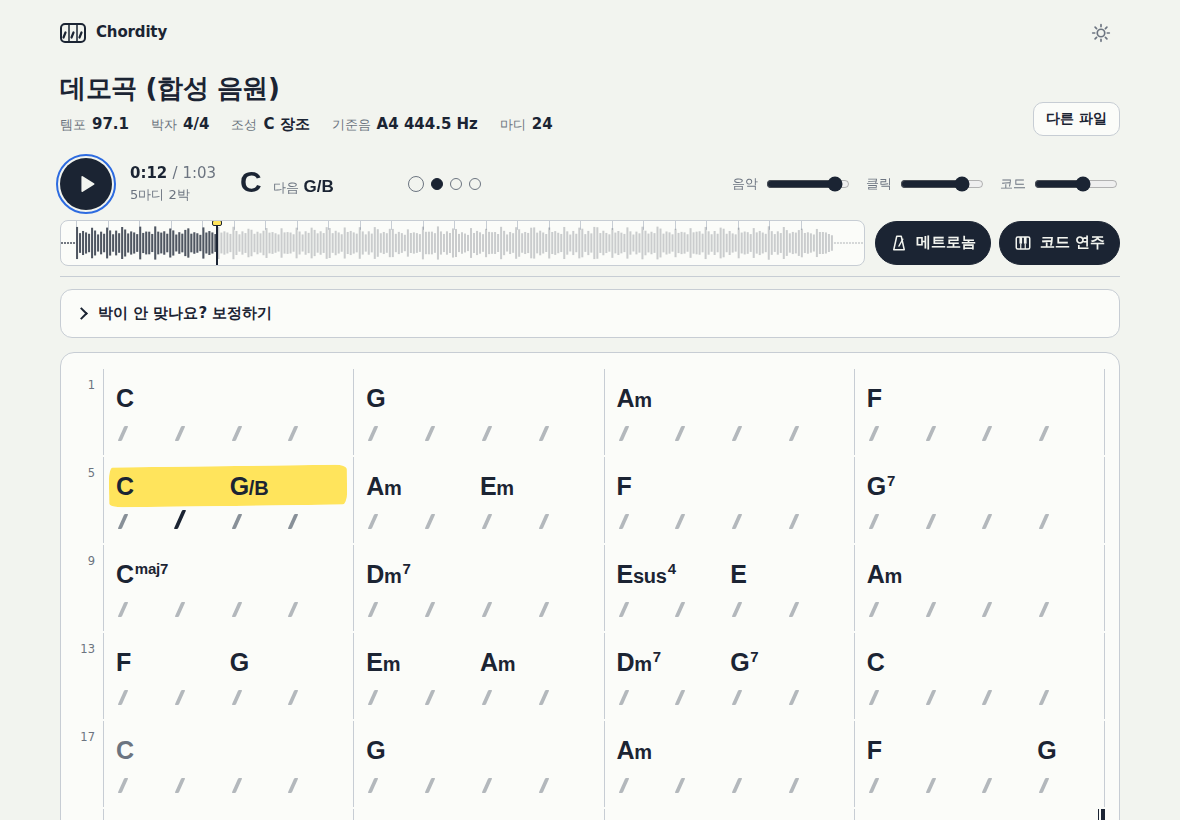
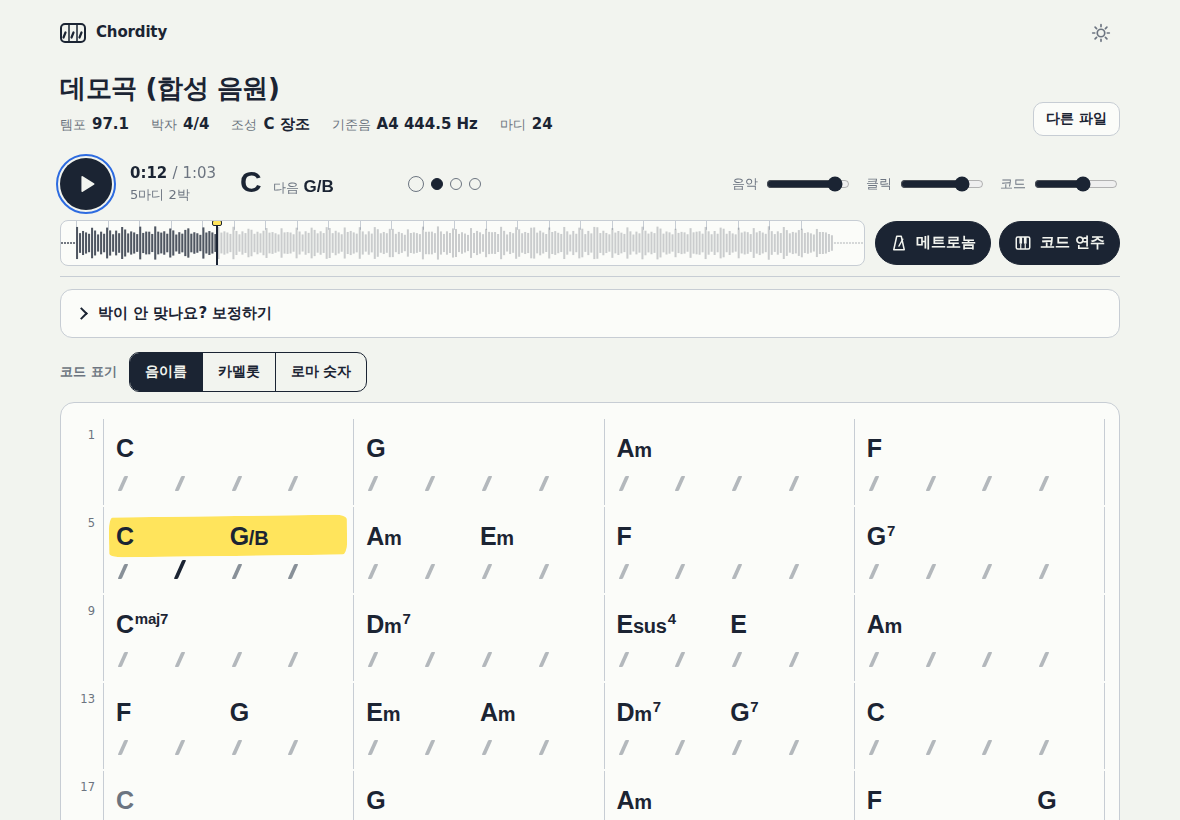
Add files via upload

diff --git a/README.md b/README.md
@@ -58,6 +58,8 @@ MP3, WAV, M4A, FLAC, OGG처럼 브라우저가 재생할 수 있는 파일이면
 | 0번 마디 | 노래가 마디 중간에서 시작하는 부분 (못갖춘마디) |
 | 마디 위의 `2박` 같은 표시 | 그 마디만 박 수가 다름 |
 | 검은 이름표 `E 장조로` | 그 박부터 조가 바뀜(전조). 위쪽 조성 칸에도 `E♭ 장조 → E 장조`처럼 나옴 |
+| `8B`, `9A`에 작은 글자가 붙은 이름 | 카멜롯 표기를 골랐을 때의 코드 이름(아래 "카멜롯으로 보기" 참고) |
+| `I`, `vi`, `V7/ii` 같은 로마 숫자 | 로마 숫자 표기를 골랐을 때의 코드 이름(아래 "로마 숫자로 보기" 참고) |
 | 동그라미 표시등 | 지금 몇 번째 박인지. 가장 큰 동그라미가 마디의 첫 박 |
 | 위쪽의 "다음 G" | 곧 나올 코드 |
 | 메트로놈, 코드 연주 버튼 | 누를 때마다 켜고 끔 |
@@ -76,11 +78,23 @@ MP3, WAV, M4A, FLAC, OGG처럼 브라우저가 재생할 수 있는 파일이면
 | 마디가 시작되는 곳이 한 박 어긋났다 | 한 박 앞당기기, 한 박 늦추기 |
 | 클릭이 아주 살짝 이르거나 늦게 느껴진다 | 클릭 타이밍 |
 | 박 보정을 처음 상태로 돌리고 싶다 | 박 보정 되돌리기 |
-| 코드 표기 같은 설정을 처음 상태로 돌리고 싶다 | 설정 기본값으로 |
+| 코드 종류 같은 설정을 처음 상태로 돌리고 싶다 | 설정 기본값으로 |
 
 지금 무엇을 바꿔 두었는지는 같은 칸의 **적용 중**에 "박 보정"과 "설정"으로 나뉘어 나옵니다. 칸을 접어 두어도 제목 옆에 요약이 보입니다.
 
-코드를 더 간단하게 보고 싶으면 **코드 표기**에서 "기본"을, 한 박 안에서 바뀌는 코드까지 보고 싶으면 "½박 단위"를 고르세요.
+코드를 더 간단하게 보고 싶으면 **코드 종류**에서 "기본"을, 한 박 안에서 바뀌는 코드까지 보고 싶으면 "½박 단위"를 고르세요.
+
+### 코드 이름을 다르게 보기
+
+차트 바로 위의 **코드 표기** 막대에서 코드를 적는 방식을 고릅니다. 누르는 즉시 차트, 지금·다음 코드, 텍스트 차트가 모두 바뀌고, 고른 방식은 다음에도 그대로입니다.
+
+| 버튼 | 예 | 쓰임 |
+|---|---|---|
+| 음이름 | C, Am, G7, G/B | 일반적인 코드 이름 |
+| 카멜롯 | 8B, 8A, 9B⁷ | DJ 믹싱에서 쓰는 카멜롯 휠 번호(아래 "카멜롯으로 보기") |
+| 로마 숫자 | I, vi, V⁷/ii, I⁶ | 화성학 책의 로마 숫자 화성 분석(아래 "로마 숫자로 보기") |
+
+키보드로는 막대에 초점을 둔 채 ←, →로 방식을 바꿉니다.
 
 ### 피아노로 코드 듣기
 
@@ -89,6 +103,34 @@ MP3, WAV, M4A, FLAC, OGG처럼 브라우저가 재생할 수 있는 파일이면
 - 음악, 클릭, 코드 소리 크기는 위쪽 막대 세 개로 따로 맞춥니다.
 - **보정하기**의 **코드 연주**에서 치는 때를 고를 수 있습니다: 코드가 바뀔 때, 마디마다 다시, 박마다.
 - 끄려면 **코드 연주** 버튼이나 P 키를 누르세요.
+
+### 카멜롯으로 보기
+
+카멜롯 표기는 조성을 시계처럼 1~12번 자리에 놓고, 장조는 B, 단조는 A를 붙이는 방식입니다. 번호가 같거나 하나 차이 나는 조성끼리는 잘 어울립니다. 그래서 DJ가 곡을 이어 붙일 때 많이 씁니다.
+
+- 코드는 근음과 성격이 같은 조성의 번호로 적습니다. C는 8B, Am은 8A, G7은 9B에 작은 7이 붙습니다.
+- 한 조성 안의 코드는 그 조성 번호와 양옆 번호에 모입니다. E♭ 장조(5B) 곡이라면 4·5·6번이 주로 나오므로, 번호가 멀리 떨어진 코드는 조성 밖의 코드라는 뜻입니다.
+- 곡의 조성도 `E♭ 장조(5B)`처럼 번호를 함께 보여 줍니다.
+- 카멜롯에는 베이스음을 적는 방법이 없어 슬래시 코드의 베이스음은 생략합니다. 코드 연주는 베이스음까지 그대로 칩니다.
+
+### 로마 숫자로 보기
+
+로마 숫자 표기(로마 숫자 화성 분석)는 코드를 음이름 대신 **조성 안에서 몇 번째 음 위의 화음인지**로 적는 방법입니다. C 장조의 C·F·G는 I·IV·V, A 단조의 Am·Dm·E7은 i·iv·V7이 됩니다. 조성이 달라도 같은 진행은 같은 숫자로 보이므로 곡의 뼈대를 읽거나 다른 조로 옮겨 치기 좋습니다.
+
+| 표기 | 뜻 |
+|---|---|
+| I, IV, V (대문자) | 장3화음 계열 코드. 숫자는 조성의 몇 번째 음 위의 화음인지 |
+| i, ii, vi (소문자) | 단3화음 계열 코드 |
+| °, ø, +, M | 감화음(°), 반감7화음(ø), 증3화음(+), 장7화음(M7) |
+| 7 | 7화음 |
+| 6, ⁶₄ | 3화음의 자리바꿈. 베이스가 3음이면 6, 5음이면 ⁶₄ |
+| ⁶₅, ⁴₃, ⁴₂ | 7화음의 자리바꿈. 베이스가 3음, 5음, 7음일 때 |
+| V/x, vii°/x, ii/x | x로 가기 위해 잠시 쓰는 화음(부속화음). V7/vi는 vi로 가는 딸림7화음 |
+| ♭VI, ♭VII 등 | 조성 음계 밖의 도수. 같은 으뜸음의 단조에서 빌려 온 화음(차용 화음) 등 |
+
+- 숫자는 그 자리의 조성을 기준으로 셉니다. 전조한 뒤에는 새 조성에서 다시 셉니다.
+- 전조 직전에 새 조성의 딸림화음이 나오면 새 조성 기준 V로 적습니다(예: E 장조로 넘어가기 직전의 B7은 V7).
+- 베이스음 표기를 끄면 자리바꿈 숫자 없이 기본형으로 적습니다.
 
 ### 단축키
 
@@ -109,7 +151,7 @@ MP3, WAV, M4A, FLAC, OGG처럼 브라우저가 재생할 수 있는 파일이면
 ### 알아 두면 좋은 것
 
 - 파일은 인터넷으로 보내지지 않습니다. 모든 분석은 브라우저 안에서 합니다.
-- 메트로놈, 코드 연주, 볼륨, 코드 표기 같은 설정은 브라우저에 저장되어 다음에도 그대로입니다.
+- 메트로놈, 코드 연주, 볼륨, 코드 종류와 코드 표기 방식 같은 설정은 브라우저에 저장되어 다음에도 그대로입니다.
 - 블루투스 이어폰을 써도 음악, 클릭, 피아노가 함께 늦게 나오기 때문에 서로 어긋나지 않습니다.
 - 아이폰에서 소리가 안 나면 무음 모드가 켜져 있는지 확인하세요.
 
@@ -261,12 +303,12 @@ flowchart TD
 
 1. **보정 연산 적용**: 사용자가 누른 ½박, ×2, ÷2, ÷3을 누른 순서대로 비트 목록에 적용합니다. ÷2와 ÷3은 어느 박을 남길지 박 강세로 정합니다.
 2. **박 단위 집계**: 박 구간의 크로마를 가운데에 가중치를 두어 평균합니다. 베이스 크로마에서는 곡 전체 중앙값의 절반을 빼서, 음정이 있는 킥 드럼처럼 늘 깔린 성분을 없앱니다.
-3. **조성과 전조**: 비트마다 앞뒤 ±6박의 음 분포를 Krumhansl–Kessler 조성 프로필과 비교하고, 조표 12종을 상태로 하는 HMM으로 조성 구간을 나눕니다. 24박보다 짧은 구간은 이웃 구간에 흡수합니다. 전조가 없으면 곡 전체 분포로 고른 조성 하나를 씁니다.
+3. **조성과 전조**: 비트마다 앞뒤 ±6박의 음 분포를 Krumhansl–Kessler 조성 프로필과 비교하고, 조표 12종을 상태로 하는 HMM으로 조성 구간을 나눕니다. 24박보다 짧은 구간은 이웃 구간에 흡수합니다. 전조가 없으면 곡 전체 분포로 고른 조성 하나를 씁니다. 코드를 인식한 뒤에는 구간마다 코드로 조성을 다시 정합니다. 코드가 어느 조성 음계에 들어맞는지, 으뜸화음이 차지하는 시간, V → I 종지, 처음과 마지막 코드, 4마디 악구 첫 박의 코드를 음 분포와 함께 봅니다.
 4. **예비 코드**: 장3화음과 단3화음만으로 빠르게 한 번 풀어 첫 박 증거로 씁니다.
 5. **세분 판정**: 박 안의 1/2 지점과 1/3, 2/3 지점의 온셋 세기를 비교해 겹박자인지 봅니다.
 6. **첫 박 HMM**: 박자를 자동으로 고르고(4박 대 3박, 겹박자면 4 대 2), 사용자의 첫 박 이동을 반영합니다.
 7. **최종 코드 HMM**: 1박 또는 ½박 단위로, 전위를 포함해 최대 289개 상태에서 비터비로 풉니다.
-8. **마디 구성**: 첫 박마다 마디를 나누고, 마디 안의 코드 변화 위치와 길이, 앞 마디에서 이어지는지 여부, 그 자리의 조성에 맞는 음이름(♯ 또는 ♭)을 붙입니다. 전조 경계는 마디 첫 박을 조금 선호하도록 박 단위로 다듬고(딸림화음 경유면 으뜸화음 자리로), 몇 마디 몇 박인지 기록합니다.
+8. **마디 구성**: 첫 박마다 마디를 나누고, 마디 안의 코드 변화 위치와 길이, 앞 마디에서 이어지는지 여부, 그 자리의 조성에 맞는 음이름(♯ 또는 ♭), 카멜롯 부호, 로마 숫자를 함께 붙입니다. 화면은 차트 위 코드 표기 막대에서 고른 하나를 보여 주며, 표기를 바꿀 때 다시 분석하지 않습니다. 전조 경계는 마디 첫 박을 조금 선호하도록 박 단위로 다듬고(딸림화음 경유면 으뜸화음 자리로), 몇 마디 몇 박인지 기록합니다.
 
 ### 3-7. 재생과 메트로놈
 
@@ -286,7 +328,7 @@ flowchart TD
 | 한 박 앞당기기, 늦추기 | `downShift` ∓1 | 마디 안 위치 번호를 한 칸씩 회전 |
 | 박자 | `meter` | 첫 박 HMM을 지정한 박 수로 다시 풂 |
 
-보정은 비트 목록에 대한 **연산 기록**으로 저장되어 매번 처음부터 순서대로 다시 적용됩니다. "박 보정 되돌리기"는 이 기록을 비우는 것입니다. 코드 표기, 코드 연주 방식, 첫 박 강조, 자동 스크롤, 클릭 타이밍은 곡이 아니라 브라우저에 저장되는 **설정**이라 "설정 기본값으로"로 따로 되돌립니다. "적용 중"에는 두 가지 모두 기본값과 다른 것만 나옵니다.
+보정은 비트 목록에 대한 **연산 기록**으로 저장되어 매번 처음부터 순서대로 다시 적용됩니다. "박 보정 되돌리기"는 이 기록을 비우는 것입니다. 코드 종류, 코드 연주 방식, 첫 박 강조, 자동 스크롤, 클릭 타이밍은 곡이 아니라 브라우저에 저장되는 **설정**이라 "설정 기본값으로"로 따로 되돌립니다. "적용 중"에는 두 가지 모두 기본값과 다른 것만 나옵니다.
 
 ### 3-9. 코드 연주
 
@@ -700,6 +742,67 @@ b^\ast = \arg\max_{|b - b_0| \le 8}\ \sum_{j=b-16}^{b-1}\big(u_j(A) - u_j(B)\big
 
 $b^\ast$ 의 코드가 새 조의 V, V7, Vsus4 이고 8박 안에 새 조의 으뜸화음(장조 I·Imaj7, 단조 i·im7)이 이어지면, 경계를 그 으뜸화음 자리로 옮깁니다. 이렇게 나눈 구간의 조성이 코드 방출 점수 (12)의 조성 가산점과 음이름 표기에 쓰입니다.
 
+코드 인식이 끝나면 구간마다 코드로 조성을 다시 정합니다. 구간의 코드열(같은 코드는 하나로 묶고 길이 $\ell_j$ 박)과 후보 조성 $K$ 에 대해 다음 점수가 가장 큰 조성을 24개 중에서 고릅니다.
+
+```math
+J(K) = \frac{\sum_j \ell_j\,[\,c_j \subset K\,]}{\sum_j \ell_j} + 0.5\,\frac{\sum_j \ell_j\,[\,c_j = \mathrm{I}_K\,]}{\sum_j \ell_j} + 0.3\min\!\Big(1, \frac{N_{V \to I}}{3}\Big) + 0.15\,[\,c_1 = \mathrm{I}_K\,] + 0.15\,[\,c_\text{last} = \mathrm{I}_K\,] + 0.4\,\frac{N_\text{phrase}(\mathrm{I}_K)}{N_\text{phrase}} + 1.2\,\mathrm{corr}\Big(\sum_i h_i,\ \vec K\Big)
+```
+
+$[\,c \subset K\,]$ 는 코드 구성음이 모두 조성 음계(단조는 이끎음 포함)에 드는지, $\mathrm{I}_K$ 는 으뜸화음(장조 I·Imaj7, 단조 i·im7), $N_{V \to I}$ 는 V·V7 → I 진행 수, $N_\text{phrase}$ 는 구간의 첫 온마디부터 4마디마다의 첫 박 수입니다. 마지막 항의 비중 1.2는 조성이 분명한 곡 18개로 정했습니다.
+
+#### (19) 카멜롯 표기
+
+카멜롯 휠은 조성을 5도권 순서로 1~12번에 놓고 장조에 B, 단조에 A를 붙입니다. 장조 으뜸음 $t$ (C = 0)의 번호와, 나란한 장조(으뜸음 $t+3$)와 번호를 공유하는 단조의 번호는 다음과 같습니다.
+
+```math
+n_\text{major}(t) = \big((7t + 7) \bmod 12\big) + 1,\qquad n_\text{minor}(t) = n_\text{major}\big((t + 3) \bmod 12\big)
+```
+
+$7t \bmod 12$ 는 C에서 5도를 몇 번 올라간 자리인지를 뜻합니다( $7 \cdot 7 \equiv 1 \pmod{12}$ 이므로 5도 위의 조성은 번호가 1 커짐). 여기에 7을 더해 C 장조가 8B가 되게 합니다.
+
+| 번호 | A (단조) | B (장조) |
+|---|---|---|
+| 1 | A♭m (G♯m) | B |
+| 2 | E♭m (D♯m) | F♯ (G♭) |
+| 3 | B♭m | D♭ |
+| 4 | Fm | A♭ |
+| 5 | Cm | E♭ |
+| 6 | Gm | B♭ |
+| 7 | Dm | F |
+| 8 | Am | C |
+| 9 | Em | G |
+| 10 | Bm | D |
+| 11 | F♯m | A |
+| 12 | C♯m (D♭m) | E |
+
+코드는 근음이 같고 3음이 같은 조성의 번호를 쓰고, 코드 종류는 첨자로 남깁니다. 3음이 없는 sus 코드는 B 쪽에 둡니다.
+
+| 코드 종류 | 카멜롯 부호 | 예 |
+|---|---|---|
+| 장3화음, 7, maj7, aug, sus2, sus4 | 근음 장조의 번호 + B | C → 8B, G7 → 9B7, Fmaj7 → 7Bmaj7, Esus4 → 12Bsus4 |
+| 단3화음, m7, dim, m7♭5, dim7 | 근음 단조의 번호 + A | Am → 8A, Dm7 → 7A7, Bdim → 10Adim, Bm7♭5 → 10A7♭5 |
+
+장조 $n$B의 다이아토닉 코드는 I·IV·V가 $n$B·$(n-1)$B·$(n+1)$B, ii·iii·vi가 $(n-1)$A·$(n+1)$A·$n$A로, 모두 $n \pm 1$ 안에 모입니다(12 다음은 1).
+
+#### (20) 로마 숫자 화성 분석
+
+그 자리의 조성(으뜸음 $t$, 장·단조)을 기준으로 근음 $r$ 의 음정 $d = (r - t) \bmod 12$ 를 도수로 바꿉니다. 단조는 자연단음계를 기준으로 하고, 이끎음 위의 감화음은 관례대로 임시표 없이 vii°로 적습니다.
+
+| $d$ | 0 | 1 | 2 | 3 | 4 | 5 | 6 | 7 | 8 | 9 | 10 | 11 |
+|---|---|---|---|---|---|---|---|---|---|---|---|---|
+| 장조 | I | ♭II | II | ♭III | III | IV | ♯IV | V | ♭VI | VI | ♭VII | VII |
+| 단조 | I | ♭II | II | III | ♯III | IV | ♯IV | V | VI | ♯VI | VII | ♯VII |
+
+| 규칙 | 내용 |
+|---|---|
+| 대·소문자 | 3음이 단3도인 코드(m, m7, dim, m7♭5, dim7)는 소문자 |
+| 성질 기호 | dim·dim7 → °, m7♭5 → ø, aug → +, maj7 → M |
+| 자리바꿈 숫자 | 3화음은 기본형(없음), 6, ⁶₄. 7화음은 7, ⁶₅, ⁴₃, ⁴₂. 베이스음 표기를 끄면 기본형 |
+| 부속 딸림화음 | 조성 밖의 장3화음·딸림7화음이 바로 다음 코드로 완전5도 내려가 해결하고, 그 코드가 으뜸화음이 아닌 조성 안 3화음 x이면 V/x, V7/x. 단조의 VII → III 도 V/III |
+| 부속 이끎음 화음 | 조성 밖 감화음이 반음 위의 조성 안 3화음 x로 가면 vii°/x, vii°7/x, viiø7/x |
+| 부속 ii | 조성 밖 단3화음·m7·m7♭5가 완전5도 아래의 V/x로 이어지면 ii/x, ii7/x, iiø7/x |
+| 전조 직전 | 다음 구간 조성의 V·V7이 그 조성의 으뜸화음으로 가면 새 조성 기준 V |
+
 ### 4-2. 물리 세계
 
 #### 소리, 음높이, 평균율
@@ -854,6 +957,12 @@ const TL = Engine.buildTimeline(A, { vocab: 'extended', res: 2, slash: true });
 console.log(Engine.chartText(TL, { title: '내 노래' }));
 // # 내 노래  |  BPM 97.1  |  박자 4/4  |  조성 C 장조
 //   1 | C . / . / . / . | G . / . / . / . | ...
+
+// 카멜롯 표기로 내보내기: 조성은 C 장조(8B), 코드는 8B, 9A7 처럼
+console.log(Engine.chartText(TL, { title: '내 노래', notation: 'camelot' }));
+
+// 로마 숫자로 내보내기: I, V7/vi, ii65 처럼(자리바꿈 숫자는 이어서 적음)
+console.log(Engine.chartText(TL, { title: '내 노래', notation: 'roman' }));
 ```
 
 **설정** (`Engine.defaultSettings()`)
@@ -888,11 +997,11 @@ console.log(Engine.chartText(TL, { title: '내 노래' }));
 | `empty` | 비트가 부족해 차트를 만들지 못했는가 |
 | `beats`, `pos`, `barOfBeat` | 비트 시각, 마디 안 위치(0이 첫 박), 비트가 속한 마디 |
 | `bars[]` | `num`, `pickup`, `t0`, `t1`, `startBeat`, `nBeats`, `events[]` |
-| `events[]` | `off`, `dur`(박 단위), `tied`, `pcs`(구성음, 0 = C), `bassPc`(연주할 베이스), `label`(`root`, `base`, `ext`, `bass`, `text`, `ascii`, `nc`) |
+| `events[]` | `off`, `dur`(박 단위), `tied`, `pcs`(구성음, 0 = C), `bassPc`(연주할 베이스), `label`(`root`, `base`, `ext`, `bass`, `text`, `ascii`, `nc`, `cam`: 카멜롯 `code`·`ext`·`text`·`ascii`, `rn`: 로마 숫자 `acc`·`num`·`qual`·`fig`·`sus`·`sec`·`text`·`ascii`) |
 | `bpm` | 비트 간격 중앙값으로 계산한 템포 |
 | `meter` | `m`, `triple`, `label`(예: `4/4`, `12/8`), `contrast`, `alt` |
 | `key` | 첫 조성: `tonic`, `mode`, `score`, `name`(예: `E♭ 장조`) |
-| `keys[]` | 조성 구간: `name`, `tonic`, `mode`, `startBeat`, `barNum`(마디 번호), `beat`(몇 박), `t0`(초) |
+| `keys[]` | 조성 구간: `name`, `cam`(카멜롯 부호), `tonic`, `mode`, `startBeat`, `barNum`(마디 번호), `beat`(몇 박), `t0`(초) |
 
 #### 세 개의 시계
 
@@ -922,7 +1031,7 @@ flowchart LR
 
 #### 설정 저장
 
-메트로놈 켜기, 첫 박 강조, 코드 연주 켜기와 치는 때, 음악과 클릭과 코드 볼륨, 클릭 타이밍, 자동 스크롤, 테마, 코드 어휘, 해상도, 슬래시 표기를 `localStorage` 의 `chordity-prefs-v1` 에 저장(이전 이름의 저장값이 있으면 옮겨 옴)합니다. 저장할 수 없는 환경에서도 앱은 그대로 동작합니다.
+메트로놈 켜기, 첫 박 강조, 코드 이름 표기 방식(음이름, 카멜롯, 로마 숫자), 코드 연주 켜기와 치는 때, 음악과 클릭과 코드 볼륨, 클릭 타이밍, 자동 스크롤, 테마, 코드 어휘, 해상도, 슬래시 표기를 `localStorage` 의 `chordity-prefs-v1` 에 저장(이전 이름의 저장값이 있으면 옮겨 옴)합니다. 저장할 수 없는 환경에서도 앱은 그대로 동작합니다.
 
 ### 4-4. 이슈와 해결
 
@@ -940,6 +1049,8 @@ flowchart LR
 | 비트가 6~8 ms 이르게 찍힘 | 46 ms 창이 어택을 미리 포함해 플럭스 정점이 앞섬 | 6.5 ms 보정 상수 | 평균 오차 0 ± 2 ms |
 | 7화음의 61%를 3화음으로 인식 | 7화음 사전 벌점이 과도 | $\beta$, $\gamma$, 벌점을 격자 탐색으로 재조정 | 7화음 누락 0, 3화음의 7화음 오인 0 |
 | 전조가 있는 곡도 조성을 하나로만 표시하고, 전조 뒤 코드를 옛 조의 표기로 적음(E 장조 구간의 A♭m7 등) | 조성을 곡 전체에서 한 번만 추정 | 조표 단위 조성 HMM으로 구간을 나누고, 구간마다 ♯/♭ 표기와 조성 가산점을 따로 적용 | 「세월이 가면」 45마디 1박부터 E 장조, 이후 G♯m7·C♯7로 표기 |
+| 코드가 분명한 가단조 진행(Am … E7)을 E 단조로 판정 | 음 분포와 조성 프로필의 상관만으로 조성을 정해, 조성 밖 음(F)을 충분히 벌하지 못함 | 인식된 코드로 구간 조성을 다시 정하고(음계 적합, 으뜸화음 시간, V → I, 처음·마지막 코드) 음 분포 상관과 섞음 | A 단조로 판정, 로마 숫자 i v6 VI III6 … |
+| 짧은 구간이 나란한 단조로 기움(E 장조 → C♯ 단조) | 구간이 vi로 끝나고 V/vi → vi 가 있으면 코드 단서가 단조 쪽으로 기움 | 4마디 악구 첫 박의 으뜸화음 비율을 단서로 추가하고 음 분포 비중을 18곡 시험으로 정함 | 조성이 분명한 18곡 모두 맞음 |
 | 베이스가 C인데 Cm7을 E♭ 또는 E♭maj7로 적음 | 같은 음 구성(Cm7 = E♭6)에서 근음을 가르는 단서가 베이스뿐인데 가중치가 약함 | 베이스 가중치를 올려 보았으나 경과음 때문에 다른 곳에 C♯maj7/C 같은 오답이 생겨 되돌림 | 미해결, 한계에 기록 |
 | 음악 시작 전에 가짜 못갖춘마디 | DP 경로가 무음까지 이어지고, 가장자리 정리의 이웃 평활이 이를 살려 둠 | 소리 구간 ±¼박 밖 비트 제거 후 외삽 | 제거 |
 | 잡음 바닥이 소리로 판정 | 소리 구간 기준이 느슨함 | −40 dB → −38 dB | 제거 |
@@ -1033,6 +1144,27 @@ flowchart LR
 
 전조 뒤 표기도 확인했습니다. D 장조 구간은 F♯m, E 장조 구간은 G♯m7·C♯m, A♭ 장조 구간은 D♭·B♭m7으로 적습니다.
 
+#### 카멜롯 표기 시험
+
+| 항목 | 결과 |
+|---|---|
+| 24개 조성의 번호를 표준 카멜롯 휠 표와 대조 | 24/24 일치 |
+| 코드 종류별 변환 | C → 8B, Am → 8A, G7 → 9B7, Dm7 → 7A7, Cmaj7 → 8Bmaj7, Esus4 → 12Bsus4, Bdim → 10Adim, Bm7♭5 → 10A7♭5, Bdim7 → 10Adim7, G/B → 9B |
+| 실제 녹음(「세월이 가면」)에서 표기 전환 | 조성 E♭ 장조(5B) → E 장조(12B), 전조 이름표 "12B로". 차트, 지금·다음 코드, 텍스트 차트, 스크린 리더용 이름이 모두 카멜롯으로 바뀌고, 음이름을 고르면 돌아옴 |
+| 분석 결과 | 표기를 바꿔도 박, 첫 박, 코드 판정은 그대로(합성 곡 18개 결과 동일) |
+
+#### 로마 숫자 시험
+
+코드가 분명한 합성 음원을 분석해, 인식된 코드의 로마 숫자가 화성학 교재의 표기와 같은지 확인했습니다.
+
+| 조성 | 코드 | 결과 |
+|---|---|---|
+| A 단조 | Am, Em/G, F, C/E, Dm, G, C, E7 | i, v6, VI, III6, iv, V/III, III, V7 |
+| C 장조(부속화음, 차용 화음) | C, E7, Am, D7, G7, C, A7, Dm, G7, C, Fm, C, B♭, C | I, V7/vi, vi, V7/V, V7, I, V7/ii, ii, V7, I, iv, I, ♭VII, I |
+| E♭ 장조(부속 ii, 자리바꿈) | E♭, B♭/D, Cm, B♭m7, E♭7, A♭maj7, B♭7/A♭, Gm7, Cm7, Fm7, B♭7, E♭ | I, V6, vi, ii7/IV, V7/IV, IVM7, V⁴₂, iii7, vi7, ii7, V7, I |
+
+실제 녹음(「세월이 가면」)의 코드 105개 가운데 10개가 부속화음(ii7/IV, V7/IV, V7/ii 등), 16개가 자리바꿈으로 적혔고, 전조 직전의 B7은 새 조성 E 장조의 V7로 적혔습니다. 조성이 분명한 합성 곡 18개의 조성 판정은 코드와 음 분포를 섞은 지금 방식으로 18곡 모두 맞았습니다(음 분포만 쓰던 이전 방식은 가단조 진행을 E 단조로 골라 17곡).
+
 #### 실제 녹음 시험
 
 상업 녹음 한 곡(최호섭 「세월이 가면」, 3분 50초, MP3)으로 시험했습니다. 정답 박 표시가 없으므로, 템포가 일정한 스튜디오 녹음이라는 점을 이용해 구간마다 비트를 직선에 맞춘 잔차를 추적 오차의 대리 지표로 썼습니다.
@@ -1087,7 +1219,7 @@ flowchart LR
 
 - **곡의 실제 박에 붙는 메트로놈.** 고정 BPM이 아니라 검출한 박 하나하나의 시각에 치므로 템포가 흔들려도 따라갑니다.
 - **엇박을 막는 여러 겹의 설계.** 위상 검증, 층위 검증(위험이 큰 두 배 쪽은 더 엄격하게), 검출 지연 보정, 오디오 시계 예약이 겹쳐 있고, 실제 브라우저에서 예약된 클릭을 전수 대조해 확인했습니다.
-- **마디 단위의 읽기 쉬운 코드 차트.** 한 마디 여러 코드, 박 위치에 맞춘 배치, 슬래시 코드, 못갖춘마디, N.C., 이어지는 코드 표시, 구간마다 그 조성에 맞는 ♯/♭ 표기, 전조 위치(몇 마디 몇 박부터 무슨 조) 표시, 텍스트 차트 복사를 지원합니다.
+- **마디 단위의 읽기 쉬운 코드 차트.** 한 마디 여러 코드, 박 위치에 맞춘 배치, 슬래시 코드, 못갖춘마디, N.C., 이어지는 코드 표시, 구간마다 그 조성에 맞는 ♯/♭ 표기, 카멜롯(8B, 8A)과 로마 숫자(I, V7/vi, ii⁶₅) 표기 선택, 전조 위치(몇 마디 몇 박부터 무슨 조) 표시, 텍스트 차트 복사를 지원합니다.
 - **기준음 자동 보정.** A4가 440 Hz가 아닌 녹음도 튜닝을 추정해 보정한 뒤 코드를 찾습니다.
 - **인식한 코드를 귀로 확인.** 피아노가 원곡의 기준음에 맞춰 코드를 쳐 주므로, 원곡과 겹쳐 들으며 코드가 맞는지 바로 판단할 수 있습니다. 음악, 클릭, 코드 소리는 따로 조절합니다.
 - **즉시 보정.** 사람마다 다르게 느끼는 박 층위와 첫 박을 버튼 하나로 고치고, 재분석 없이 수십 ms 안에 반영됩니다.
@@ -1105,6 +1237,9 @@ flowchart LR
 - 코드 어휘에 9, 11, 13 텐션, 6화음, add9, 파워 코드(C5)가 없습니다. 이런 코드는 가까운 3화음이나 7화음으로 단순화되고, 3음이 없는 파워 코드는 장조와 단조 사이에서 흔들릴 수 있습니다.
 - 전조는 대략 6마디(24박) 이상 이어질 때만 표시합니다. 몇 마디짜리 짧은 전조와 나란한 장·단조 사이 이동(C 장조 ↔ A 단조)은 표시하지 않습니다.
 - 딸림화음을 거친 전조는 악보 관례대로 으뜸화음 자리에 표시하므로, 딸림화음 마디부터 새 조로 보는 악보와는 한 마디쯤 다를 수 있습니다.
+- 카멜롯 표기는 조성을 위한 체계라 베이스음(전위)을 나타내지 못해 생략하고, 3음이 없는 sus 코드는 관례에 따라 B(장조 계열)에 둡니다.
+- 로마 숫자는 규칙으로 정합니다. 부속화음은 바로 다음 코드로 해결될 때만 V/x로 적고, 해결되지 않는 조성 밖 화음은 도수대로 적습니다(예: IV로 가지 않는 I7). 나폴리 화음은 N6 대신 ♭II6으로, ♯IV와 ♭V 같은 딴이름 한소리는 표의 한쪽으로만 적습니다.
+- 로마 숫자는 조성 판정에 달려 있어서, 나란한 장·단조를 잘못 고르면 숫자가 모두 달라집니다(예: vi … 대신 i …).
 - 박자는 곡 전체에서 하나로 보고 가끔 길이가 다른 마디만 허용합니다. 자동 후보는 4와 3(겹박자면 4와 2)이라 5/4, 7/8은 직접 골라야 합니다.
 - 템포가 갑자기 바뀌거나 루바토가 심한 구간은 박을 놓칠 수 있고, 박자 없이 시작하는 도입부는 첫 템포로 외삽됩니다.
 - 코드가 두 박마다 바뀌는 곡은 첫 박이 한 박 어긋날 수 있습니다.
@@ -1136,4 +1271,5 @@ flowchart LR
 - C. Wilson, "A Tale of Two Clocks: Scheduling Web Audio with Precision," 2013.
 - H. Fletcher, "Normal Vibration Frequencies of a Stiff Piano String," *JASA*, 36(1), 1964.
 - G. Weinreich, "Coupled Piano Strings," *JASA*, 62(6), 1977.
+- S. Kostka, D. Payne, and B. Almén, *Tonal Harmony*, 8th ed., McGraw-Hill, 2018. (로마 숫자와 자리바꿈 숫자 표기 관례)
 - W3C, *Web Audio API* 명세.
